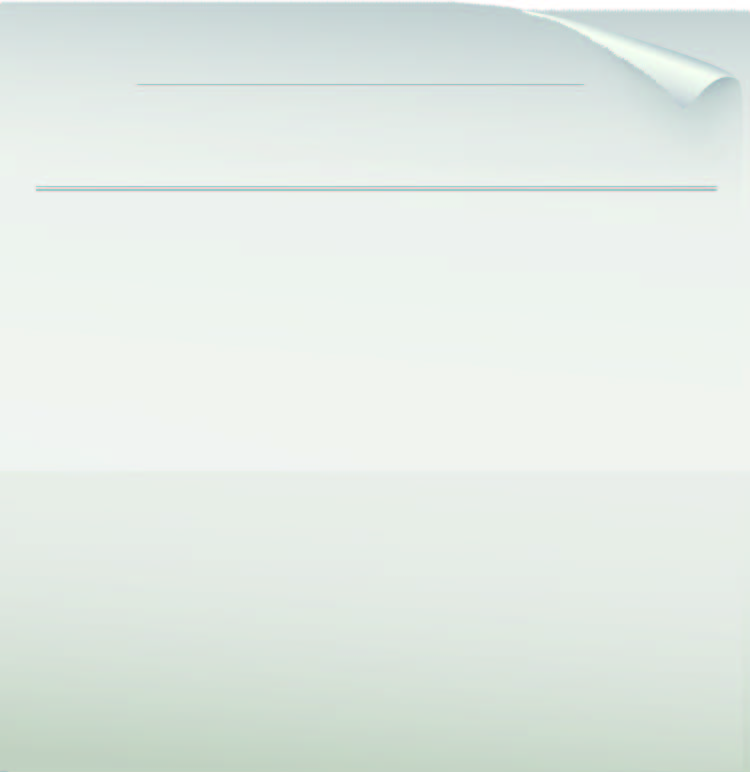
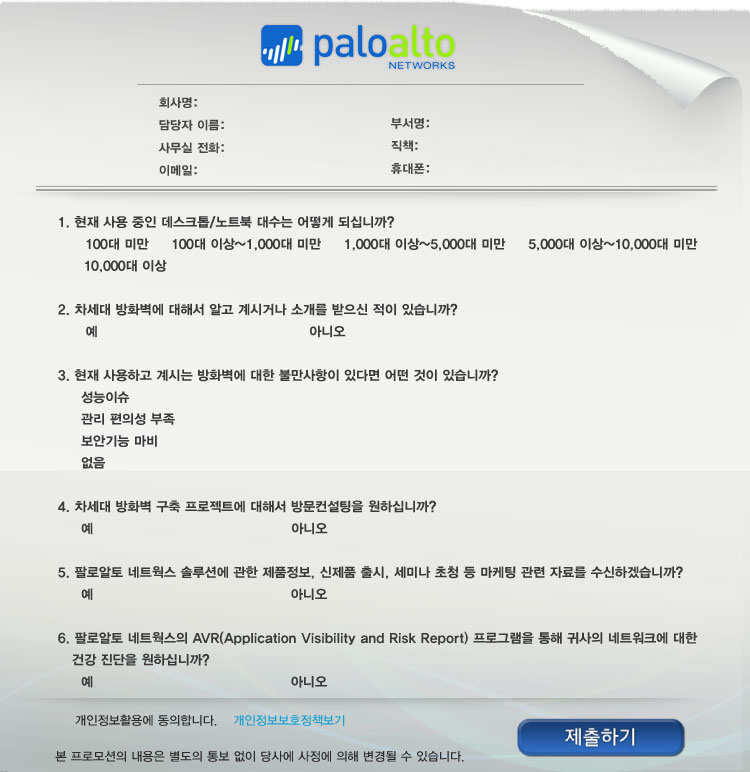
design edited

diff --git a/app/assets/stylesheets/answers.css.scss b/app/assets/stylesheets/answers.css.scss
@@ -16,129 +16,42 @@ div.app_container {
   width: 750px;
   height: 772px;
   background-image: image-url("Background.jpg");
+  position: relative;
+  z-index: 12;
 }
-
-#logo {
-  width: 200px;
-  height: 50px;
-  margin: auto;
-  padding-top: 15px;
+#main_container {
+  width: 700px;
+  margin: 0 auto;
+  color: #065580;
+  z-index: 10;
 }
-
-.userinfo_container {
-  font-size: 12pt;
-  color: #464545;
-  font-weight: 350;
-  width: 400px;
-  margin: auto;
-  margin-top: 25px;
-  div {
-    width: 200px;
-  }
-
-  div.pull-left {
-    width: 240px;
-  }
-  
-  input {
-    width: 100px;
-  }
-
-  label {
-    width: 100px;
-    display: inline-block;
-  }
-
-  div.company_name {
-    display:block;
-    width: 400px;
-    input {
-      width: 290px;
-    }
-  }
-}
-
-.inline {
-  margin-left: 240px;
-  label {
-    width: 60px;
-    display: inline-block;
-  }
+#main_container form{
+  width: 700px;
+  float: left;
+  z-index: 10;
+  margin: 0 auto;
 }
 
 .pull-left {
   float: left;
 }
 
-
-.servey_container {
-  font-size: 12pt;
-  color: #2A2A2A;
-  font-weight: 350;
-  width: 100%;
-  margin: auto;
-  margin-left: 20px;
-  div.question {
-    margin-top: 20px;
-    label {
-      font-size: 10pt;
-    }
-  }
-  div.question_2, div.question_4, div.question_5, div.question_6 {
-    label {
-      margin-right: 150px;
-    }
-  }
-  p {
-    margin: 0;
-    margin-bottom: 5px;
-    padding: 0;
-  }
-}
-
-input[type="radio"] {
-  -webkit-appearance: radio;
-  border: none;
-  background-image: image-url("check.png");
-  width: 11px;
-  height: 11px;
-  margin-left: 25px;
-}
-
-input[type="radio"]:checked {
-  -webkit-appearance: radio;
-}
 input[type="submit"] {
   -webkit-appearance: none;
   border: none;
   width: 176px;
   height: 47px;
-  background-image: image-url("btn_submit.png");
   background-color: rgba(0,0,0,0);
-}
-
-.footer {
-  position: relative;
-  font-size: 10pt;
-  color: #2a2a2a;
-  div.left_container {
-    width: 500px;
-    float: left;
-  }
-  margin-top: 15px;
-  margin-left: 10px;
-}
-
-.footer .blue {
-  color: #199fce;
+  cursor: pointer;
 }
 
 .submit_btn {
   width: 176px;
   height: 50px;
   position: absolute;
-  top: 30px;
-  left: 520px;
+  top: 713px;
+  left: 513px;
+  cursor: pointer;
 }
 
 .dummy_container {
@@ -181,7 +94,17 @@ input[type="submit"] {
 }
 
  #show_agreement {
+   position: absolute;
    border: none;
    cursor: pointer;
+   background-color: rgba(12,12,32,0);
+   width: 120px;
+   top: 709px;
+   left: 231px;
+ }
 
+ #agreement {
+   position: absolute;
+   top: 712px;
+   left: 57px;
  }

diff --git a/app/controllers/answers_controller.rb b/app/controllers/answers_controller.rb
@@ -7,6 +7,10 @@ class AnswersController < ApplicationController
     @answer = Answer.new
   end
 
+  def new2
+    @answer = Answer.new
+  end
+
   def create
     Rails.logger.info(params[:answer])
     @answer = Answer.new
